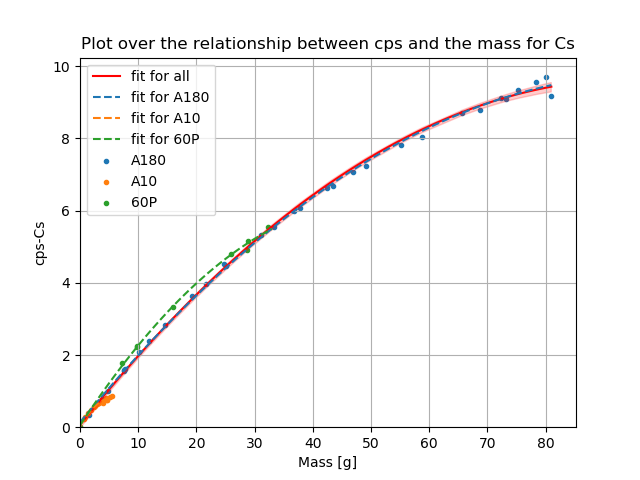
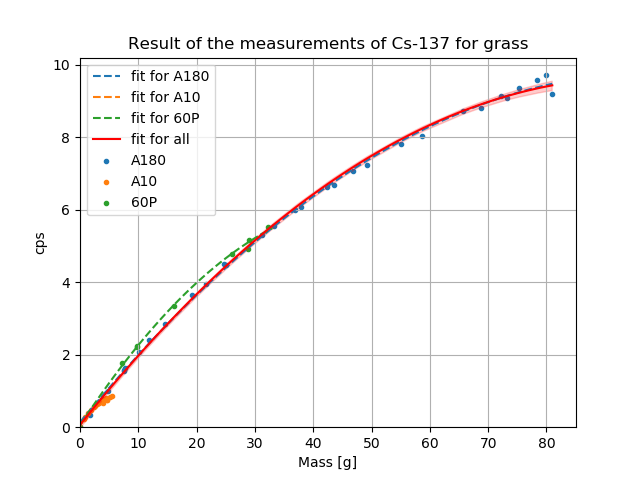
Uppdated the code and figures

diff --git a/moss-soil.py b/moss-soil.py
@@ -48,31 +48,53 @@ for e in ele:
     ci_095_high.append( data[:,5] )
 
 m = np.arange(0,max(df["Mass"])+1, 1)
+print("min m: ", np.min(m), " and the max m: ", np.max(m) )
+
+# Printing the parameters for Cs-137 and K-40
+for i in range(len(ele)):
+    print("Parameters for "+ele[i] + " is:")
+    print(results[i].params)
 
 # 2nd degree:
 Y_Cs = results[0].params[2]*m**2 + results[0].params[1]*m + results[0].params[0]
 Y_K = results[1].params[2]*m**2 + results[1].params[1]*m + results[1].params[0]
 
+
+# 425 Bq/kg for Cs-137 and 550 Bq/kg for K-40, 12 years ago. 
+# See corr_massic_activity.py for the calculations
+Bq_Cs = 0.322*m # Bq/g
+Bq_K = 0.550*m  # Bq/g
+
 ###################################################################################
 # # Plot:
 
 # Data-points:
-plt.scatter(df["Mass"], df["cps-Cs"], label="Cs-137", s=15, color="black",marker="*")
-plt.scatter(df["Mass"], df["cps-K"], label="K-40", s=15, color="black", marker="d")
+# plt.scatter(df["Mass"], df["cps-Cs"], label="Cs-137", s=15, color="blue",marker="*")
+# plt.scatter(df["Mass"], df["cps-K"], label="K-40", s=15, color="green", marker="d")
 
-# Fit for Cs and the Confidence interval
-plt.plot(m, Y_Cs,  label="fit Cs-137", color="blue")
-plt.fill_between(np.sort(df["Mass"]), np.sort(ci_095_low[0]), np.sort(ci_095_high[0]), color='blue', alpha=.2)
+# # Fit for Cs and the Confidence interval
+# plt.plot(m, Y_Cs, label="fit Cs-137", color="blue")
+# plt.fill_between(np.sort(df["Mass"]), np.sort(ci_095_low[0]), np.sort(ci_095_high[0]), color='blue', alpha=.2)
 
-# Fit for K and the Confidence interval
-plt.plot(m, Y_K,  label="fit K-40", color="green")
-plt.fill_between(np.sort(df["Mass"]), np.sort(ci_095_low[1]),  np.sort(ci_095_high[1]), color='green', alpha=.2)
+# # # Fit for K and the Confidence interval
+# plt.plot(m, Y_K,  label="fit K-40", color="green")
+# plt.fill_between(np.sort(df["Mass"]), np.sort(ci_095_low[1]),  np.sort(ci_095_high[1]), color='green', alpha=.2)
 
-plt.legend(loc="upper left")
+plt.plot(Y_Cs, Bq_Cs, label="Cs-137", color="blue")
+plt.plot(Y_K, Bq_K, label="K-40", color="green")
+plt.title("The relationship between the activity and the cps for moss-soil")
+plt.xlabel("cps")
+plt.ylabel("Activity [Bq]")
+plt.legend(loc="upper right")
+
+
+# plt.title("Result of the measurements for moss-soil")
+# plt.legend(loc="upper left")
+# plt.ylabel("cps")
+# plt.xlabel("Mass [g]")
+
 plt.ylim(0)
 plt.xlim(0)
-plt.xlabel("Mass [g]")
-plt.ylabel("cps")
 plt.grid()
-# plt.savefig("moss-soil_cps_K_+_fit.png")
+plt.savefig("moss-soil_Bq_cps.png")
 plt.show()

diff --git a/grass.py b/grass.py
@@ -82,6 +82,8 @@ ci_095_high = data[:,5]
 
 ###################################################################################
 # # # Plot:
+# plt.scatter(MASS_1, CPS_1)
+# plt.scatter(MASS_2, CPS_2)
 
 # Data for the different containers
 plt.scatter(burk_A180["Mass"], burk_A180["cps-"+ele], label="A180", marker=".")
@@ -100,9 +102,9 @@ plt.fill_between(np.sort(df["Mass"]), np.sort(ci_095_low), np.sort(ci_095_high),
 plt.legend()
 plt.ylim(0)
 plt.xlim(0)
-plt.title("Plot over the relationship between cps and the mass for "+ele)
+plt.title("Result of the measurements of K-40 for grass")
 plt.xlabel("Mass [g]")
-plt.ylabel("cps-" + ele)
+plt.ylabel("cps")
 plt.grid()
 plt.savefig("grass_all+trends_"+ele+".png")
 plt.show()

diff --git a/corr_massic_activity.py b/corr_massic_activity.py
@@ -1,0 +1,23 @@
+import numpy as np
+
+# Time that have past since 15th Nov. 2009:
+t = 12
+
+# Half-life:
+T_12_Cs = 30.08
+T_12_K = 1.277*10**9 
+
+# Decay-constant:
+def decay_const(halflife):
+    return np.log(2) / halflife
+
+# Starting values:
+N0_Cs = 425 /10**3 #Bq/g
+N0_K = 550 /10**3 #Bq/g
+
+N_Cs = N0_Cs * np.exp( - decay_const(T_12_Cs) * t )
+print("Cs-137: ", N_Cs)
+
+
+N_K = N0_K * np.exp( - decay_const(T_12_K) * t )
+print("K-40: ", N_K)
